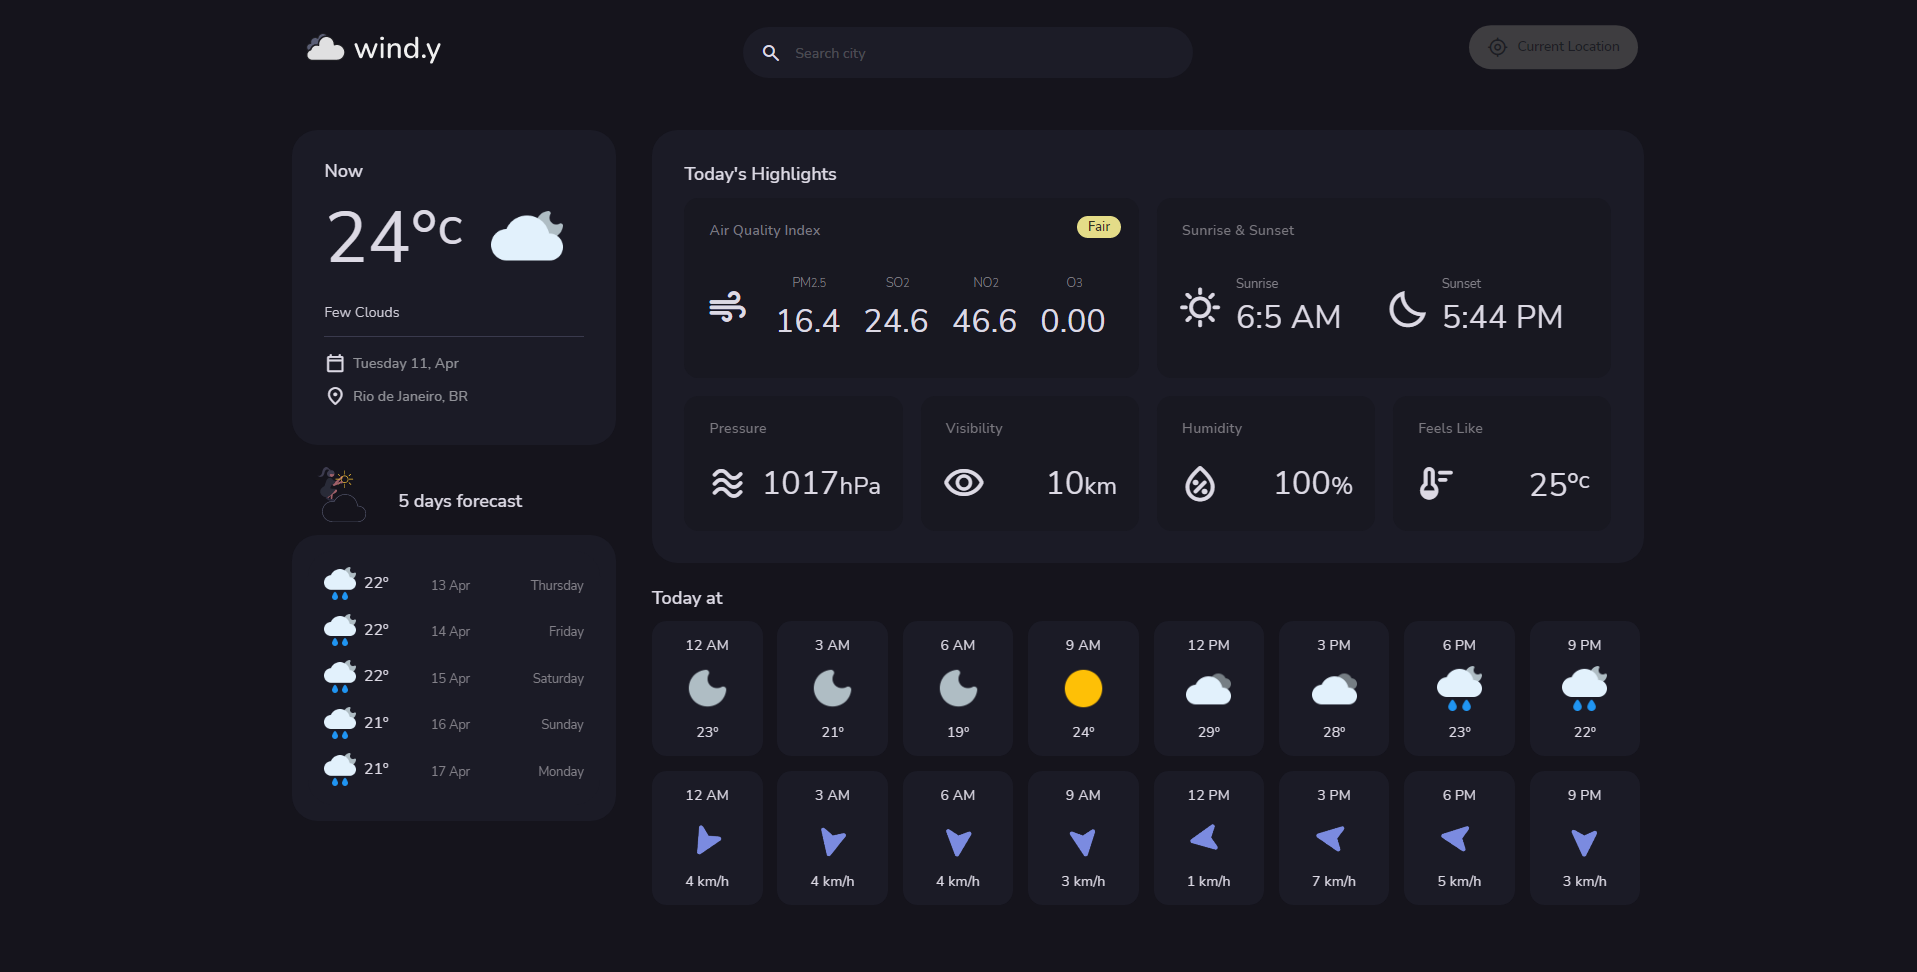
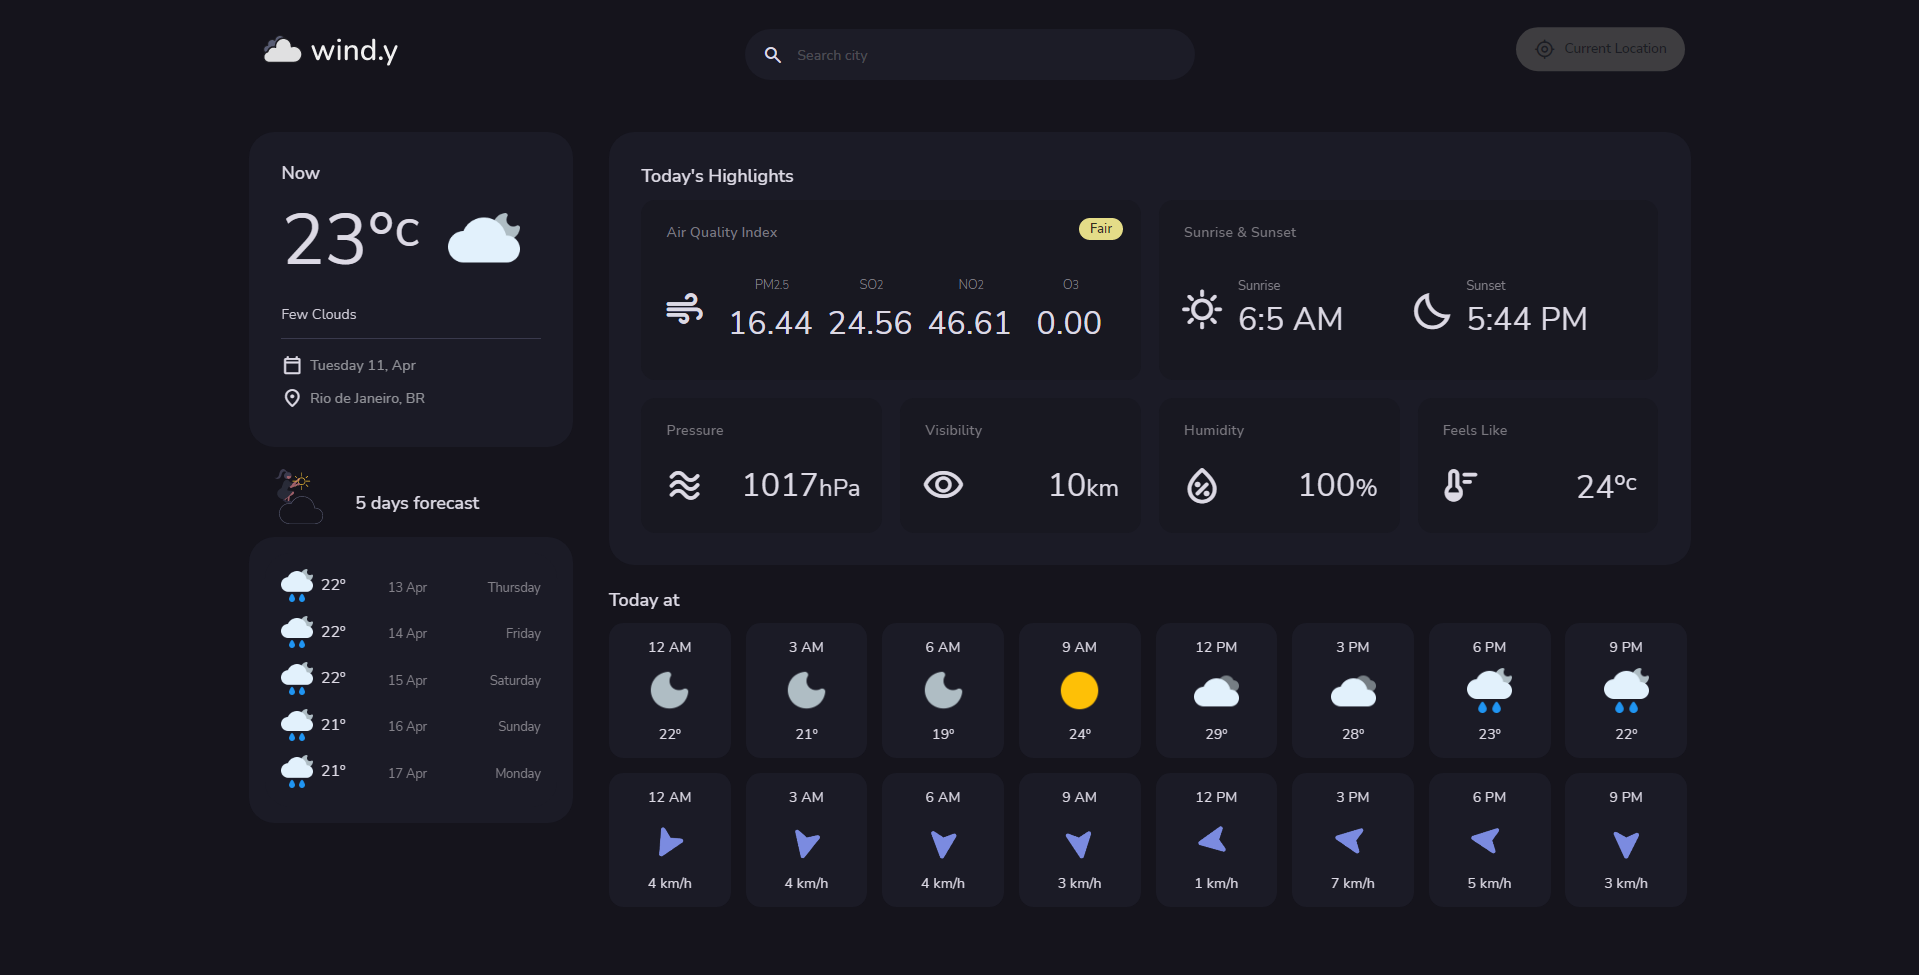
pequenas alterações

diff --git a/assets/style/style.css b/assets/style/style.css
@@ -104,7 +104,7 @@ html {
 }
 @media screen and (min-width: 1400px) {
   #s-forecast .container {
-    max-width: 1600px;
+    max-width: 1700px;
     margin: 0 auto;
     padding: 40px;
   }
@@ -188,7 +188,7 @@ header .container {
 }
 @media screen and (min-width: 1400px) {
   header .container {
-    max-width: 1600px;
+    max-width: 1700px;
     margin: 0 auto;
     padding: 40px;
   }
@@ -579,7 +579,7 @@ header .container .logo {
 }
 @media screen and (min-width: 1400px) {
   #s-current-weather .container {
-    max-width: 1600px;
+    max-width: 1700px;
     margin: 0 auto;
     padding: 40px;
   }
@@ -801,7 +801,7 @@ header .container .logo {
 }
 @media screen and (min-width: 1400px) {
   #s-highlights .container {
-    max-width: 1600px;
+    max-width: 1700px;
     margin: 0 auto;
     padding: 40px;
   }
@@ -886,7 +886,7 @@ header .container .logo {
   display: flex;
   justify-content: flex-end;
   width: 50%;
-  gap: 4px;
+  gap: 10px;
 }
 .one div ul li p:nth-child(1) {
   font: 400 2rem "Nunito Sans";
@@ -1198,7 +1198,7 @@ html {
 }
 @media screen and (min-width: 1400px) {
   #s-forecast .container {
-    max-width: 1600px;
+    max-width: 1700px;
     margin: 0 auto;
     padding: 40px;
   }
@@ -1282,7 +1282,7 @@ header .container {
 }
 @media screen and (min-width: 1400px) {
   header .container {
-    max-width: 1600px;
+    max-width: 1700px;
     margin: 0 auto;
     padding: 40px;
   }
@@ -1673,7 +1673,7 @@ header .container .logo {
 }
 @media screen and (min-width: 1400px) {
   #s-current-weather .container {
-    max-width: 1600px;
+    max-width: 1700px;
     margin: 0 auto;
     padding: 40px;
   }
@@ -1895,7 +1895,7 @@ header .container .logo {
 }
 @media screen and (min-width: 1400px) {
   #s-highlights .container {
-    max-width: 1600px;
+    max-width: 1700px;
     margin: 0 auto;
     padding: 40px;
   }
@@ -1980,7 +1980,7 @@ header .container .logo {
   display: flex;
   justify-content: flex-end;
   width: 50%;
-  gap: 4px;
+  gap: 10px;
 }
 .one div ul li p:nth-child(1) {
   font: 400 2rem "Nunito Sans";
@@ -2415,7 +2415,7 @@ main {
 }
 @media screen and (min-width: 768px) and (min-width: 1200px) and (min-width: 1400px) {
   .container-main {
-    max-width: 1600px;
+    max-width: 1700px;
     margin: 0 auto;
     padding: 40px;
   }

diff --git a/assets/js/app.js b/assets/js/app.js
@@ -188,22 +188,22 @@ export const updateWeather = function(lat, lon) {
                      
                      <ul>
                         <li>
-                           <p>${pm2_5.toPrecision(3)}</p>
+                           <p>${pm2_5.toFixed(2)}</p>
                            <p>PM<span>2.5</span></p>
                         </li>
 
                         <li>
-                           <p>${so2.toPrecision(3)}</p>
+                           <p>${so2.toFixed(2)}</p>
                            <p>SO<span>2</span></p>
                         </li>
 
                         <li>
-                           <p>${no2.toPrecision(3)}</p>
+                           <p>${no2.toFixed(2)}</p>
                            <p>NO<span>2</span></p>
                         </li>
 
                         <li>
-                           <p>${o3.toPrecision(3)}</p>
+                           <p>${o3.toFixed(2)}</p>
                            <p>O<span>3</span></p>
                         </li>
                      </ul>

diff --git a/assets/scss/pages/_highlights.scss b/assets/scss/pages/_highlights.scss
@@ -54,7 +54,7 @@
         @include flexbox-between;
         gap: 16px;
         ul {
-            @include align-center;    
+            @include align-center;
             flex-wrap: wrap;
             flex-grow: 1;
             row-gap: 8px;
@@ -62,7 +62,7 @@
                 display: flex;
                 justify-content: flex-end;
                 width: 50%;
-                gap: 4px;
+                gap: 10px;
                 p:nth-child(1) {
                     font: 400 2rem 'Nunito Sans';
         

diff --git a/assets/scss/abstracts/_mixins.scss b/assets/scss/abstracts/_mixins.scss
@@ -54,7 +54,7 @@
     padding: 24px;
   }
   @include responsive-desktop2 {
-    max-width: 1600px;
+    max-width: 1700px;
     margin: 0 auto;
     padding: 40px
   }
